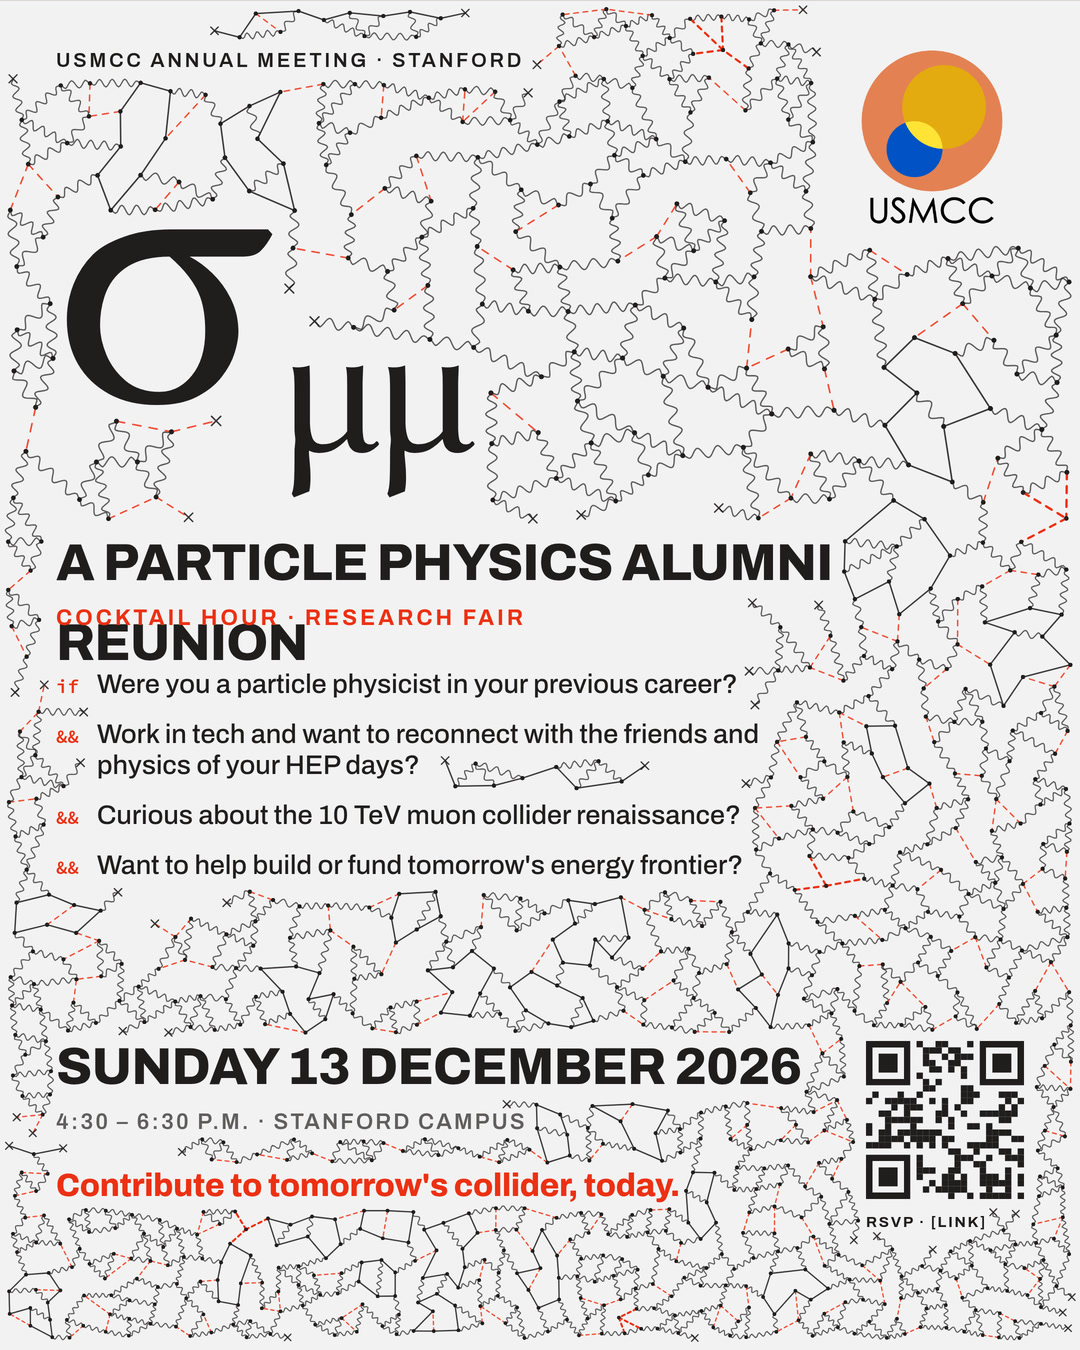
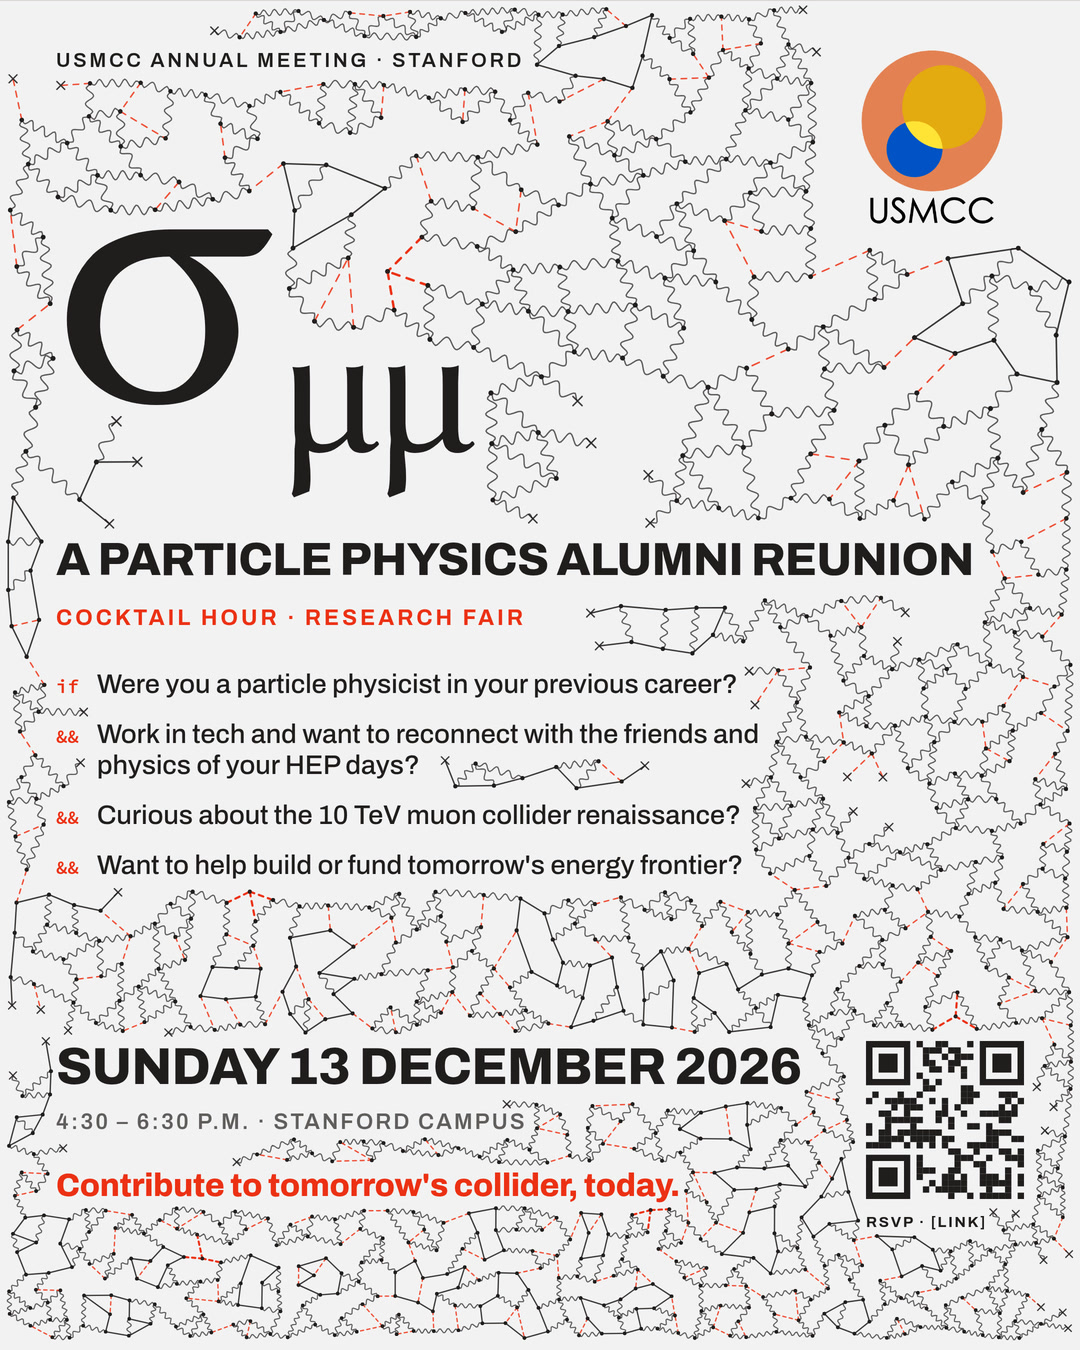
Keep the subtitle on one line
The longer subtitle overran the Instagram board's measure at 52px and wrapped
into the accent line beneath it. Sized to 46px there and pinned to one line on
both boards.

Claude-Session: https://claude.ai/code/session_01BjD9eBbTwFN6BRZeeU9uPk

diff --git a/design/Sigma Mu Mu Network.dc.html b/design/Sigma Mu Mu Network.dc.html
@@ -46,7 +46,7 @@ a:hover { color: var(--color-accent); }
 <span id="t-sigma" style="font-size:560px">σ</span><span id="t-mumu" style="position:relative;top:66px;left:6px;font-size:270px">μμ</span>
 </div>
 
-<div data-zone="text" style="position:absolute;left:64px;top:664px;font-size:50px;font-weight:800;letter-spacing:-.015em;text-transform:uppercase;z-index:2">A Particle Physics Alumni Reunion</div>
+<div data-zone="text" style="position:absolute;left:64px;top:664px;font-size:50px;font-weight:800;letter-spacing:-.015em;text-transform:uppercase;white-space:nowrap;z-index:2">A Particle Physics Alumni Reunion</div>
 <div data-zone="text" style="position:absolute;left:64px;top:748px;font-size:18px;font-weight:700;letter-spacing:.14em;text-transform:uppercase;color:var(--color-accent);z-index:2">Cocktail hour · Research fair</div>
 
 <div data-zone="text" style="position:absolute;left:64px;top:822px;width:532px;display:flex;flex-direction:column;gap:16px;z-index:2">
@@ -85,7 +85,7 @@ a:hover { color: var(--color-accent); }
 <span id="i-sigma" style="font-size:400px">σ</span><span id="i-mumu" style="position:relative;top:50px;left:4px;font-size:195px">μμ</span>
 </div>
 
-<div data-zone="text" style="position:absolute;left:56px;top:522px;font-size:52px;font-weight:800;letter-spacing:-.015em;text-transform:uppercase;z-index:2">A Particle Physics Alumni Reunion</div>
+<div data-zone="text" style="position:absolute;left:56px;top:524px;font-size:46px;font-weight:800;letter-spacing:-.015em;text-transform:uppercase;white-space:nowrap;z-index:2">A Particle Physics Alumni Reunion</div>
 <div data-zone="text" style="position:absolute;left:56px;top:600px;font-size:22px;font-weight:700;letter-spacing:.14em;text-transform:uppercase;color:var(--color-accent);z-index:2">Cocktail hour · Research fair</div>
 
 <div data-zone="text" style="position:absolute;left:56px;top:668px;width:740px;display:flex;flex-direction:column;gap:18px;z-index:2">
